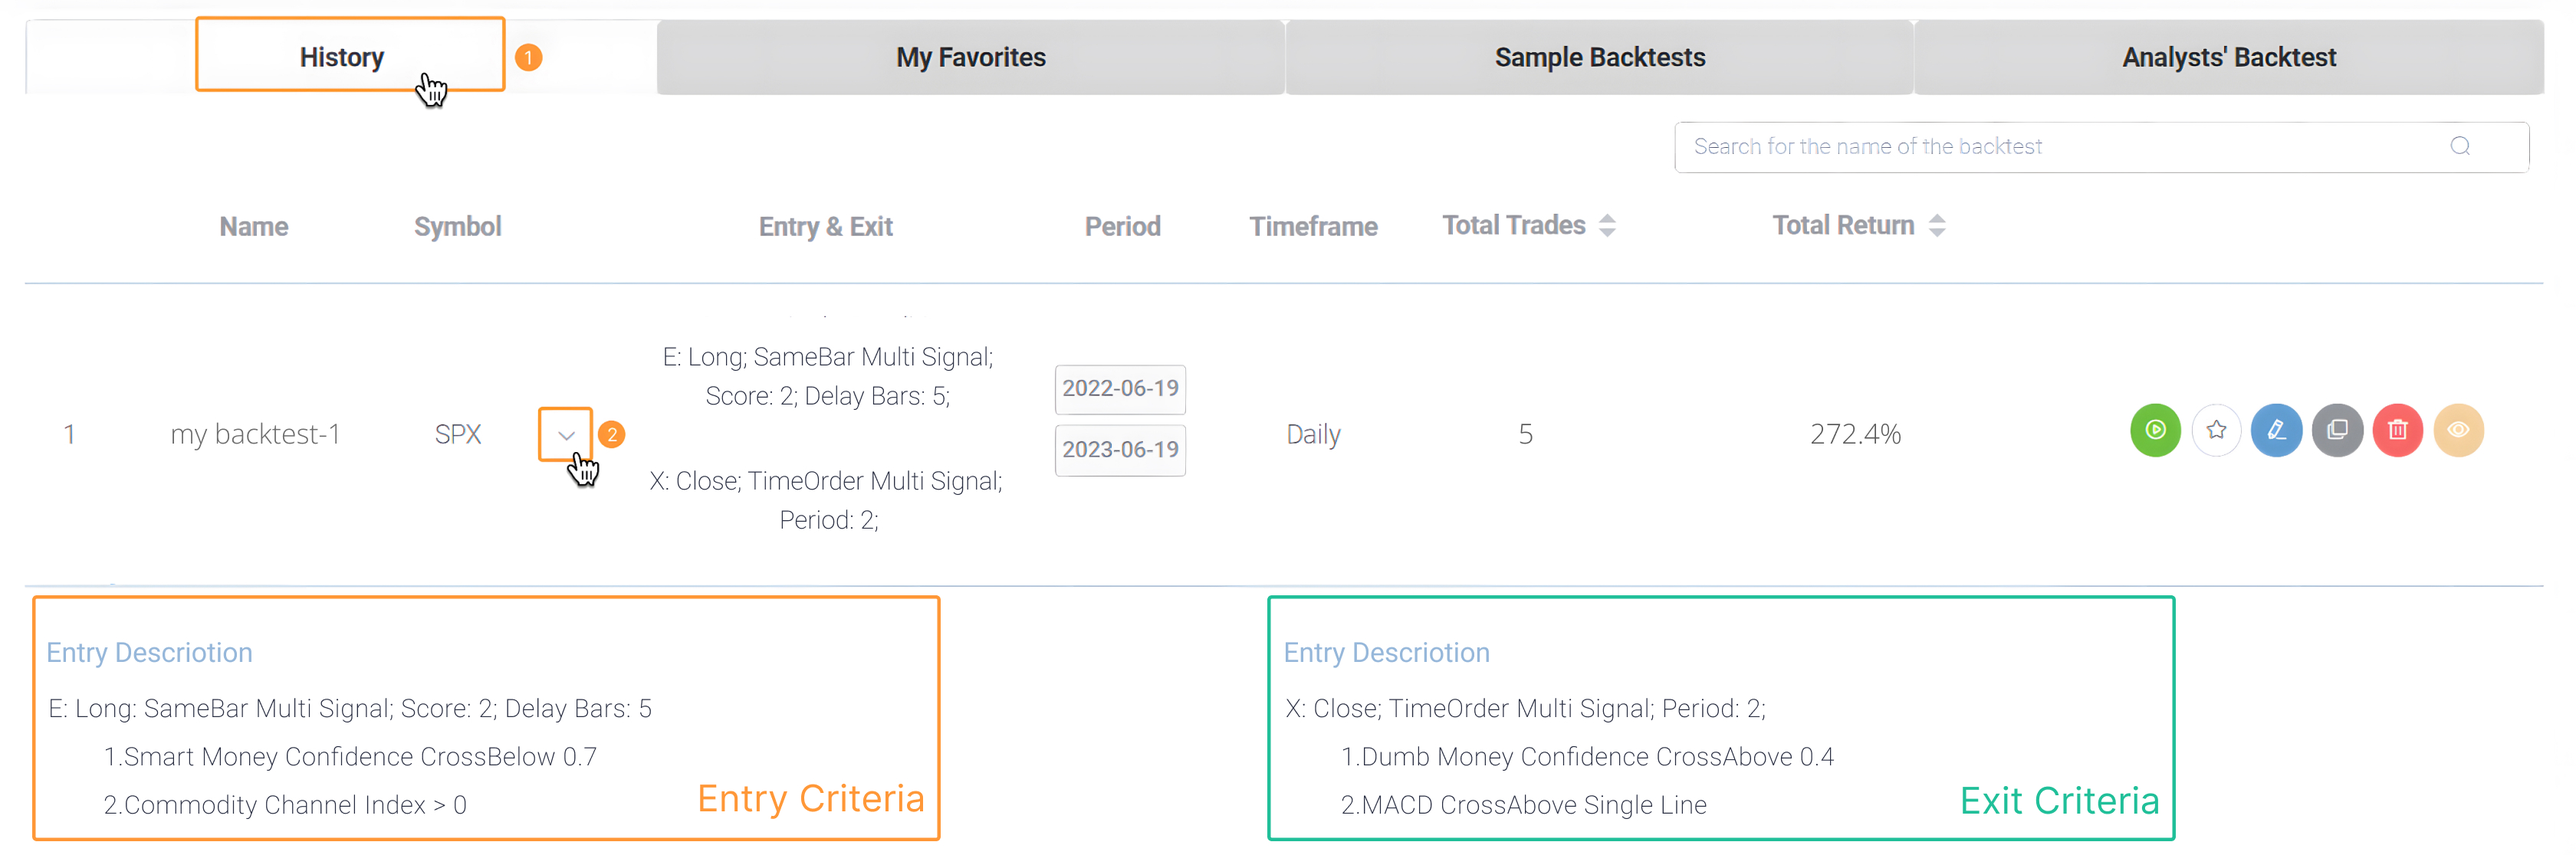
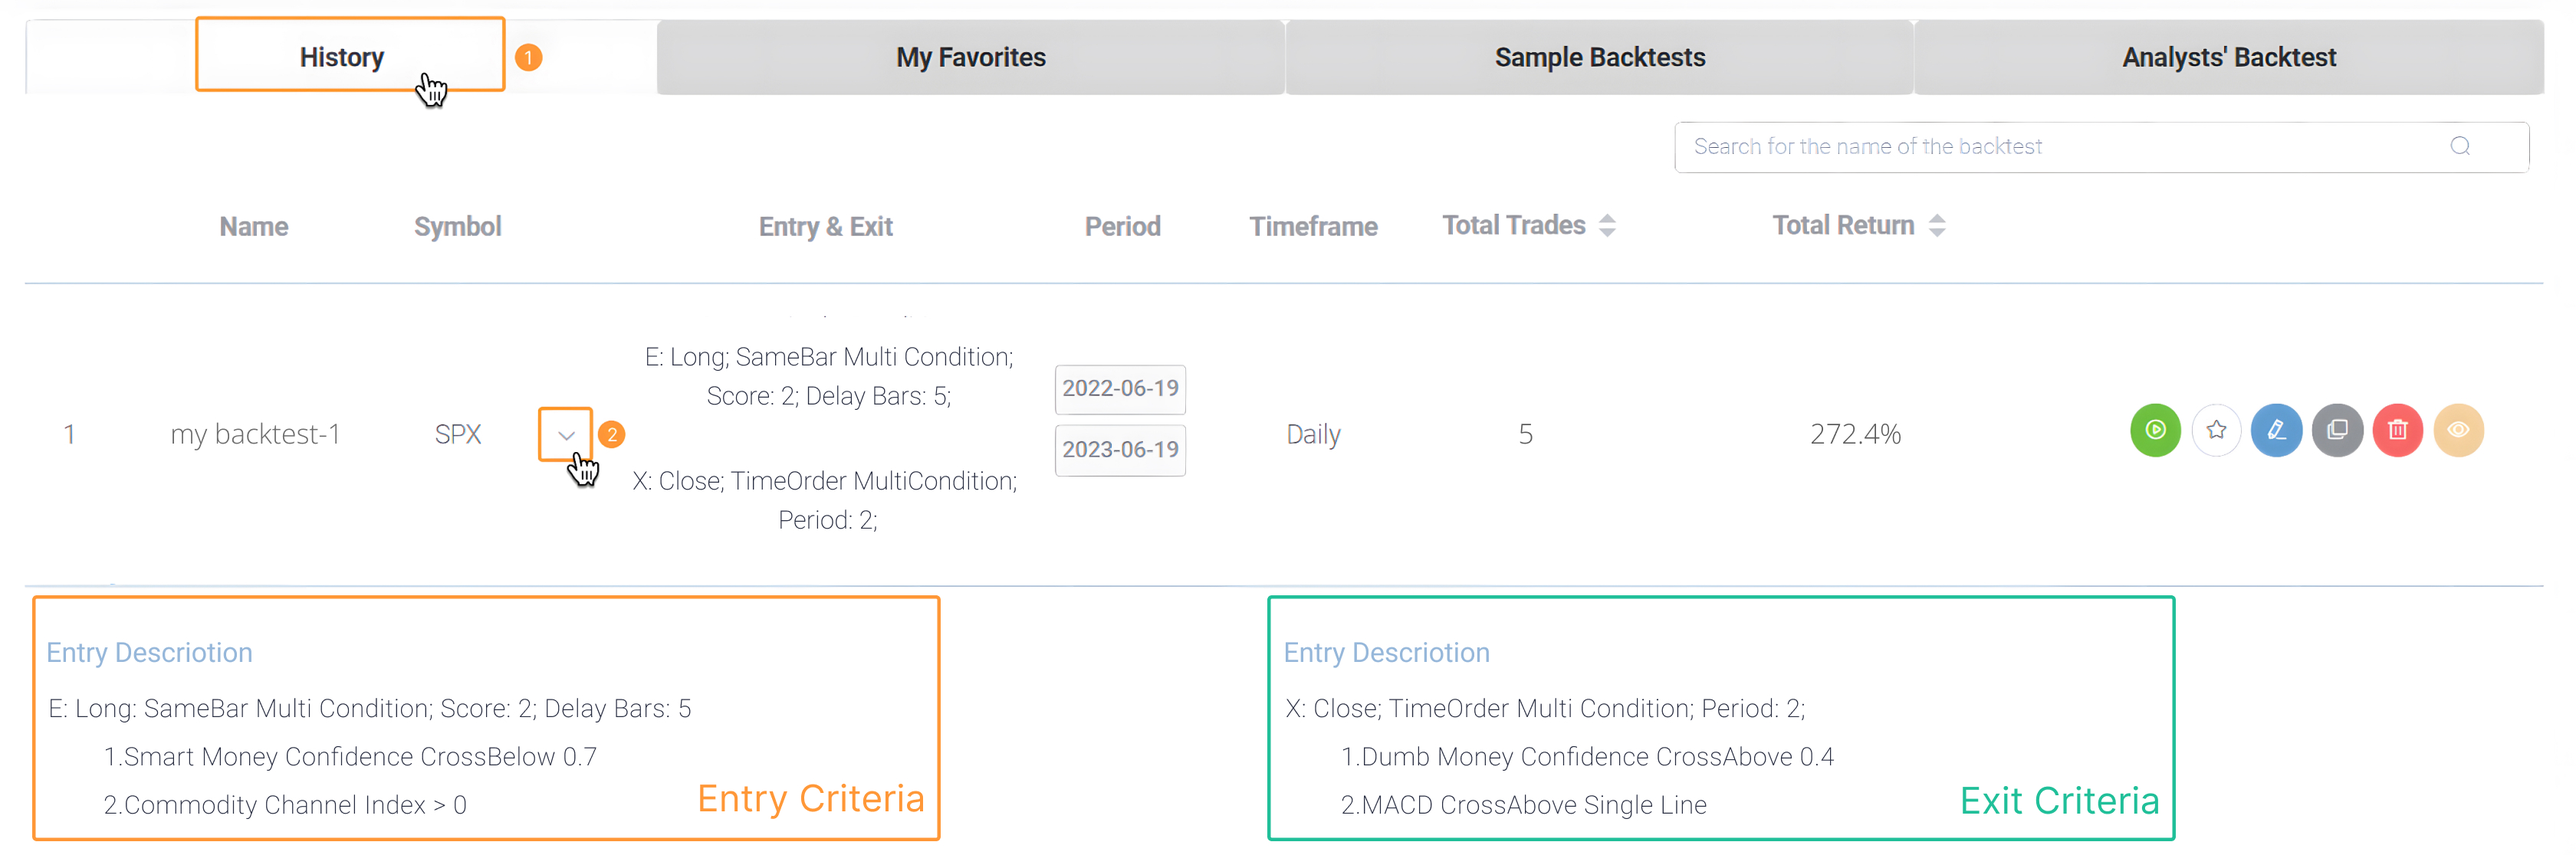
更改截图列表

diff --git a/src/components/Menu/components/Content.vue b/src/components/Menu/components/Content.vue
@@ -892,7 +892,7 @@
 						style="width: 100%; height: 50%"
 						class="image-border"
 						:src="path169"
-						:preview-src-list="path169List"
+						:preview-src-list="path1610List"
 						fit="fill"
 						lazy
 					></el-image>
@@ -1185,7 +1185,7 @@
 						style="width: 100%; height: 50%"
 						class="image-border"
 						:src="path73"
-						:preview-src-list="path73List"
+						:preview-src-list="path72List"
 						fit="fill"
 						lazy
 					></el-image>
@@ -1193,7 +1193,7 @@
 						style="width: 100%; height: 50%"
 						class="image-border"
 						:src="path74"
-						:preview-src-list="path74List"
+						:preview-src-list="path72List"
 						fit="fill"
 						lazy
 					></el-image>
@@ -1213,12 +1213,28 @@
 						copy. This allows you to use that backtest strategy in your backtest
 						history list.
 					</p>
+					<el-image
+						style="width: 100%; height: 50%"
+						class="image-border"
+						:src="path811"
+						:preview-src-list="path811List"
+						fit="fill"
+						lazy
+					></el-image>
 					<h2 id="9-1">View Backtest Results</h2>
 					<p>
 						If you want to see the results of a particular backtest, you can
 						click the "view backtest result" button to see the detailed results
 						of the backtest.
 					</p>
+					<el-image
+						style="width: 100%; height: 50%"
+						class="image-border"
+						:src="path812"
+						:preview-src-list="path812List"
+						fit="fill"
+						lazy
+					></el-image>
 					<h2 id="9-2">Analyst Report Link</h2>
 					<p>
 						In the "Entry & Exit" column of the backtest list, you can find the
@@ -1226,6 +1242,14 @@
 						on that URL will take you to the source analyst's report page, where
 						you can gather more information.
 					</p>
+					<el-image
+						style="width: 100%; height: 50%"
+						class="image-border"
+						:src="path82"
+						:preview-src-list="path82List"
+						fit="fill"
+						lazy
+					></el-image>
 					<h2 id="9-3">Share Backtest</h2>
 					<p>
 						If you want to share a backtest result from a specific analyst with
@@ -1234,6 +1258,30 @@
 						BacktestEdge, they will be able to see the backtest results and
 						parameters.
 					</p>
+					<el-image
+						style="width: 100%; height: 50%"
+						class="image-border"
+						:src="path831"
+						:preview-src-list="path83List"
+						fit="fill"
+						lazy
+					></el-image>
+					<el-image
+						style="width: 100%; height: 50%"
+						class="image-border"
+						:src="path832"
+						:preview-src-list="path83List"
+						fit="fill"
+						lazy
+					></el-image>
+					<el-image
+						style="width: 100%; height: 50%"
+						class="image-border"
+						:src="path833"
+						:preview-src-list="path83List"
+						fit="fill"
+						lazy
+					></el-image>
 				</section>
 			</section>
 			<section v-else-if="id.includes('ai')">
@@ -1455,6 +1503,12 @@ import path71 from "../img/8.1.jpg";
 import path72 from "../img/8.2.jpg";
 import path73 from "../img/8.3.jpg";
 import path74 from "../img/8.4.jpg";
+import path811 from "../img/9.1.1.jpg";
+import path812 from "../img/9.1.2.jpg";
+import path82 from "../img/9.2.jpg";
+import path831 from "../img/9.3.1.jpg";
+import path832 from "../img/9.3.2.jpg";
+import path833 from "../img/9.3.3.jpg";
 import pathai1 from "../img/ai1.jpg";
 import pathai2 from "../img/ai2.jpg";
 import pathai3 from "../img/ai3.jpg";
@@ -1575,9 +1629,8 @@ export default {
       path168: path168,
       path168List: [path168],
       path169: path169,
-      path169List: [path169],
       path1610: path1610,
-      path1610List: [path1610],
+      path1610List: [path169,path1610],
       path171: path171,
       path171List: [path171],
       path181: path181,
@@ -1603,11 +1656,19 @@ export default {
       path71: path71,
       path71List: [path71],
       path72: path72,
-      path72List: [path72],
       path73: path73,
-      path73List: [path73],
       path74: path74,
-      path74List: [path74],
+      path72List: [path72, path73, path74],
+			path811: path811,
+			path181List: [path811],
+			path812: path812,
+			path812List: [path812],
+			path82: path82,
+			path82List: [path82],
+			path831: path831,
+			path832: path832,
+			path833: path833,
+			path83List: [path831, path832, path833],
       pathai1: pathai1,
       pathai1List: [pathai1],
       pathai2: pathai2,
@@ -1621,7 +1682,7 @@ export default {
       pathai43: pathai43,
       pathai43List: [pathai43],
       pathai44: pathai44,
-      pathai44List: [pathai44]
+      pathai44List: [pathai44],
     }
   },
   components: {

diff --git a/src/components/Menu/components/Doc.vue b/src/components/Menu/components/Doc.vue
@@ -4,7 +4,7 @@
 			<h1 style="color: #00323c">
 				<img
[1 lines of base64/hex data omitted]
-				/>Easy to use of BacktestEdge
+				/>Why choose BacktestEdge
 			</h1>
 			<div class="content">
 				<h4>
@@ -84,7 +84,7 @@
 		<div class="theme-wrapper">
 			<h1 style="color: #00323c">
 				<i class="el-icon-s-marketing" style="color: #52d6f5"></i>
-				AI Stock Scanner User Guide
+				 Why choose AI Stock Scanner
 			</h1>
 			<div class="content">
 				<h4>
